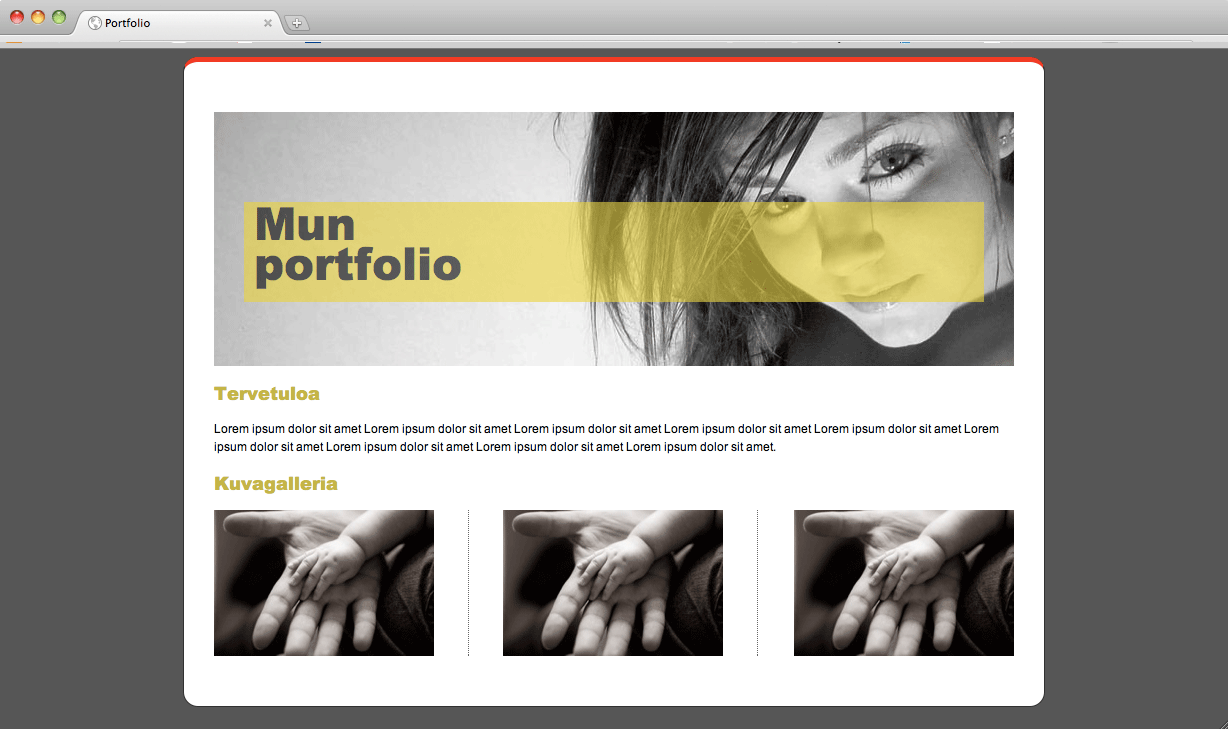
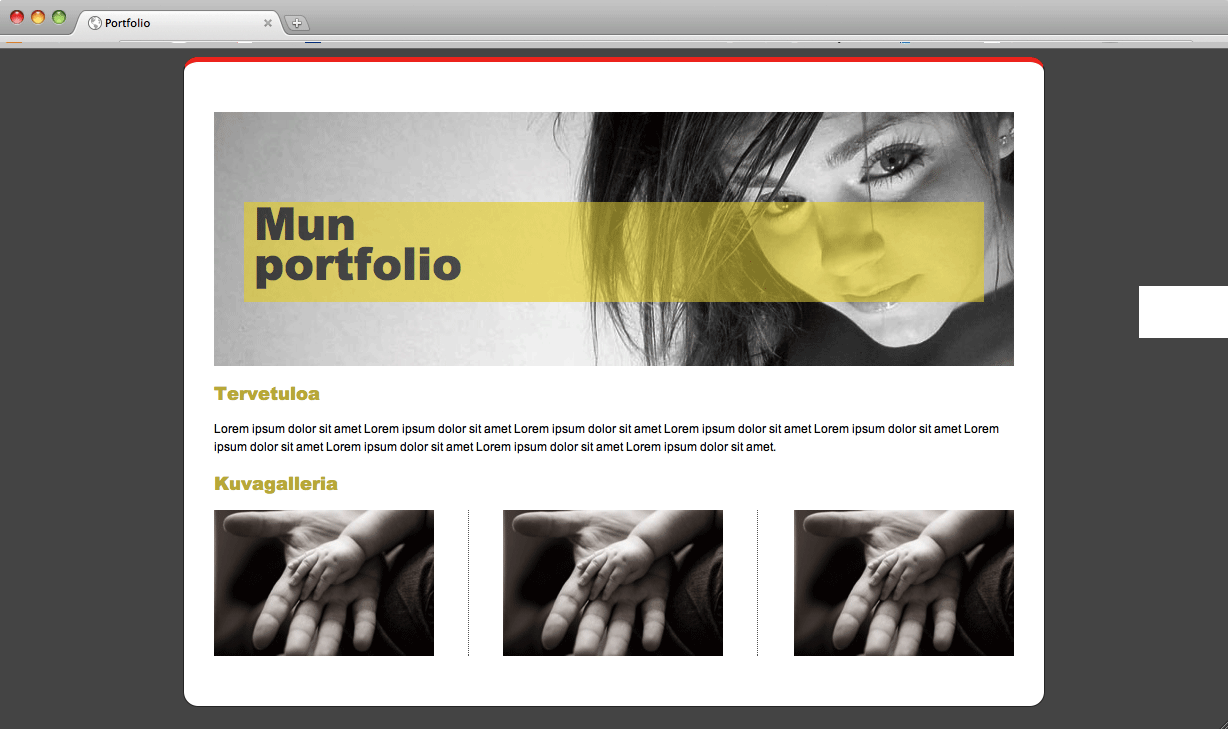
.

Changed region(s): [[0.9283, 0.3923, 1.0, 0.4829]]

diff --git a/css/tyyli.css b/css/tyyli.css
@@ -1,12 +1,21 @@
-.body {
+body {
   background-color: #565656 ;
 }
+
 #kehys {
-flex-direction: column;
-justify-content: center;
-background-color: #ffff;
-width: 300px;
-border: 15px #f23b24;
-padding: 50px;
-margin: 20px;
+  border-radius: 25px;
+  flex-direction: column;
+  justify-content: center;
+  background-color: #ffff;
+  width: 700px;
+  border-top: 10px solid #f23b24 ;
+  padding: 50px;
+  margin-left: 22%;
+}
+
+#tausta {
+  background-image: url("kuvat/kuvitus.jpg");
+}
+
+#h1 {
 }
